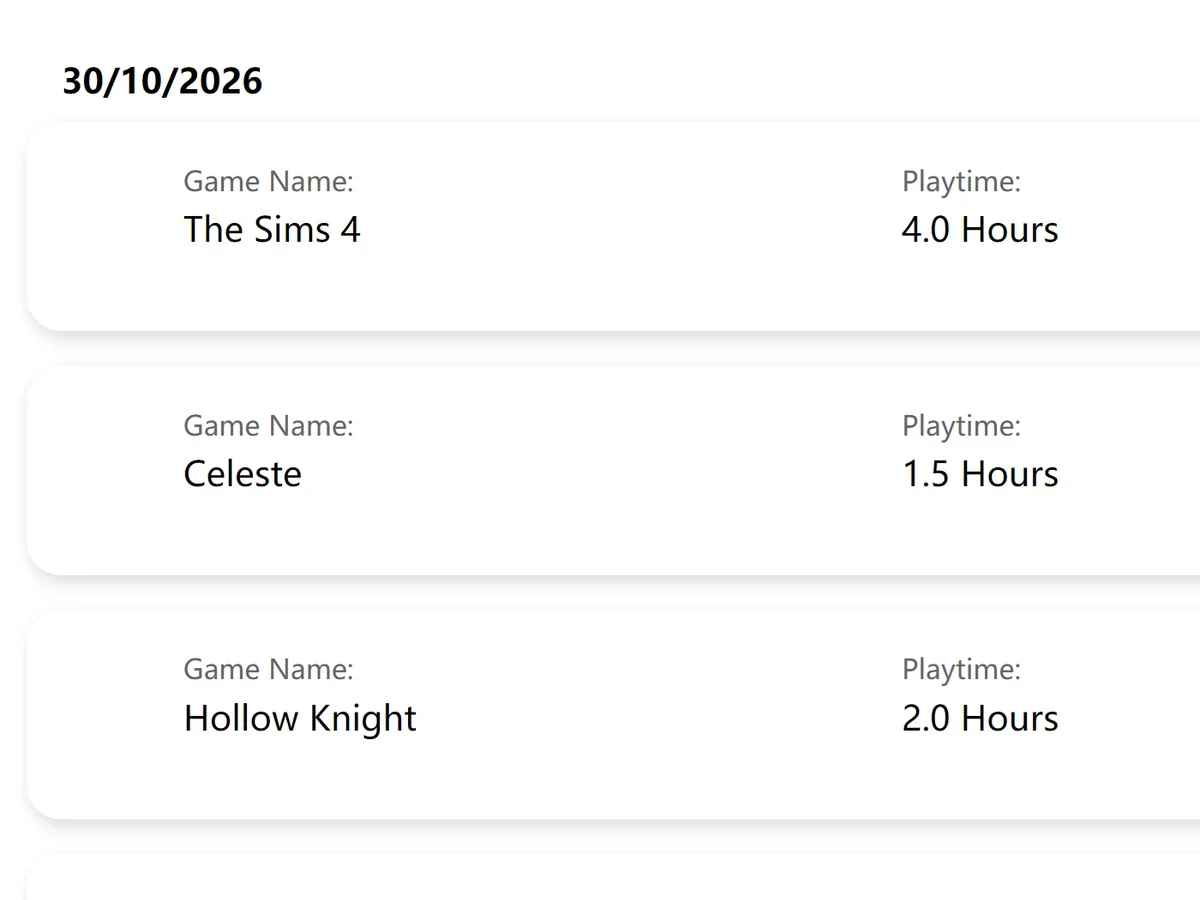
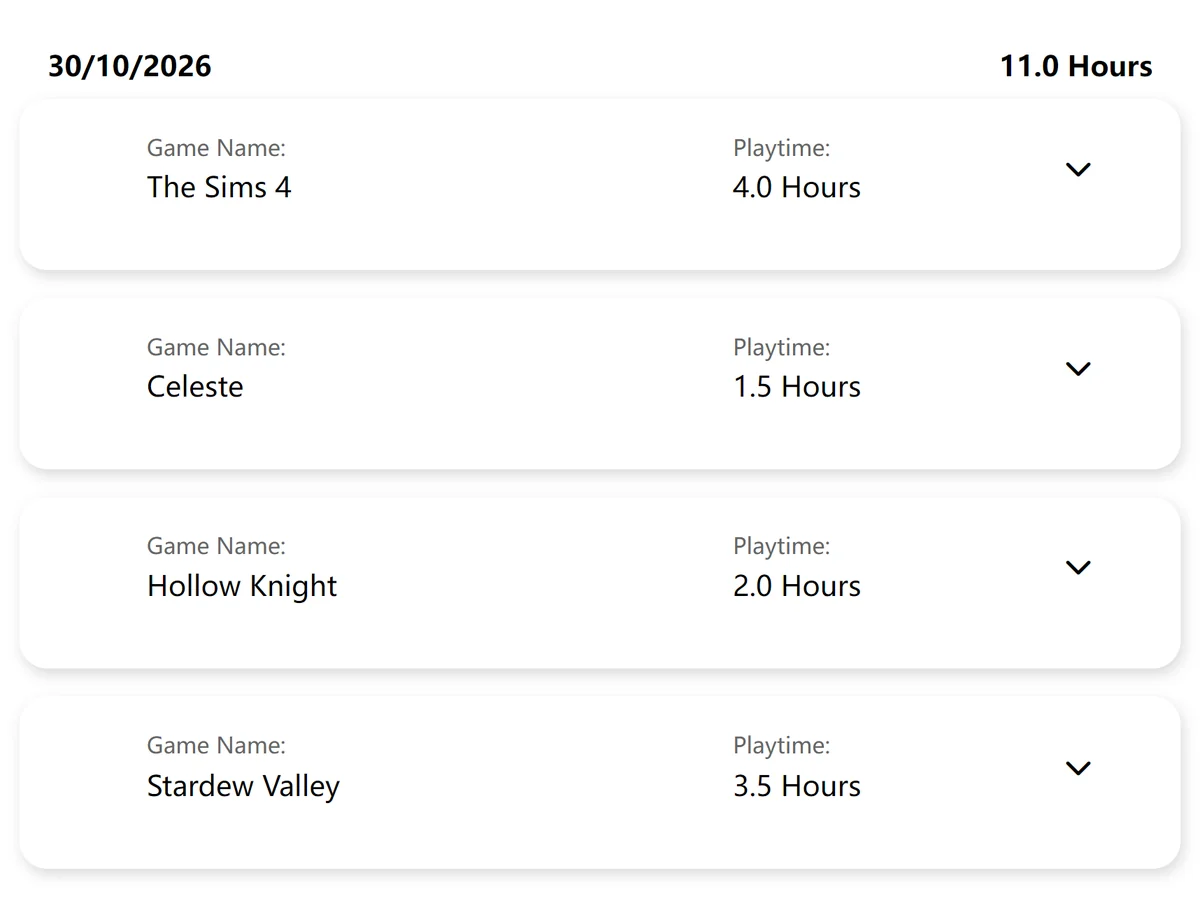
SteamTracker: new hero lede, history shot with the expand arrows, embedded app rendered at desktop width, drop the deployment post-mortem

diff --git a/steamtracker.html b/steamtracker.html
@@ -9,8 +9,8 @@
   <link rel="preconnect" href="https://fonts.googleapis.com" />
   <link rel="preconnect" href="https://fonts.gstatic.com" crossorigin />
   <link href="https://fonts.googleapis.com/css2?family=Montserrat:wght@300;400;500;600;700;800&family=Noto+Sans+SC:wght@300;400;500;700&display=swap" rel="stylesheet" />
-  <link rel="stylesheet" href="css/style.css?v=40" />
-  <link rel="stylesheet" href="css/steamtracker.css?v=40" />
+  <link rel="stylesheet" href="css/style.css?v=41" />
+  <link rel="stylesheet" href="css/steamtracker.css?v=41" />
 </head>
 <body class="st-page">
 
@@ -36,7 +36,8 @@
           <h1 class="st-hero__title">Steam<br />Tracker</h1>
           <p class="st-hero__lede">
             Steam will tell you that you have played a game for three hundred hours. It will not
-            tell you that tonight you played two. This app keeps <em>the second number</em>.
+            tell you how long you played today. This app keeps every session you add, so
+            <em>the hours are in front of you</em> instead of buried in a lifetime total.
           </p>
 
           <p class="st-hero__spec">No account · No server · Nothing leaves the browser</p>
@@ -100,7 +101,7 @@
             <figcaption><b>The landing screen.</b> Artwork for context, a sentence about privacy, then the form — nobody has to read a manual first.</figcaption>
           </figure>
           <figure>
-            <img src="assets/img/stk-history.webp" width="1200" height="900" loading="lazy"
+            <img src="assets/img/stk-history.webp" width="1200" height="901" loading="lazy"
                  alt="The history list: two entries under a date header, each with its game name and playtime." />
             <figcaption><b>The history.</b> Newest entry at the top, a date and a total above it, and an arrow on every row to open it.</figcaption>
           </figure>
@@ -177,7 +178,7 @@
     <section class="st-sec st-sec--ink" id="app">
       <div class="st-wrap">
         <p class="st-eyebrow">03 — It is a website, so use it</p>
-        <h2 class="st-h2" style="color:#fff">The build runs below. The repository link does not.</h2>
+        <h2 class="st-h2" style="color:#fff">This is the app, not a picture of it.</h2>
         <p class="st-p">
           This is the real application, not a recording of one. Add a game, watch the total change,
           refresh the page and it is still there. Everything you type stays in your own browser,
@@ -202,53 +203,6 @@
           </div>
         </div>
 
-        <p class="st-p" style="margin-top:26px">
-          <strong>Why the GitHub link never opened on another computer.</strong> Nothing in the code
-          is broken. The repository was simply never publishable, for three reasons that stack up in
-          the order you would meet them.
-        </p>
-
-        <div class="st-diag">
-          <div class="st-diag__row">
-            <div class="st-diag__n">01</div>
-            <div>
-              <div class="st-diag__t">There is no <code>index.html</code> at the root</div>
-              <div class="st-diag__d">
-                The site lives in <code>/public</code>. GitHub Pages serves the repository root, so
-                <code>github.io/&lt;repo&gt;</code> answers with a 404. There is nothing there for it
-                to open.
-              </div>
-            </div>
-          </div>
-          <div class="st-diag__row">
-            <div class="st-diag__n">02</div>
-            <div>
-              <div class="st-diag__t">The built folder is ignored by git</div>
-              <div class="st-diag__d">
-                <code>server.js</code> serves <code>/dist</code>, and <code>dist</code> sits in
-                <code>.gitignore</code>. Even with Node installed there is no compiled site to serve
-                until <code>parcel build</code> has run.
-              </div>
-            </div>
-          </div>
-          <div class="st-diag__row">
-            <div class="st-diag__n">03</div>
-            <div>
-              <div class="st-diag__t">The README's first instruction needs a step before it</div>
-              <div class="st-diag__d">
-                <code>npm run dev</code> needs <code>node_modules</code>, and a fresh clone has none.
-                The lockfile pins Parcel 2.9 and Sass from 2023, so <code>npm install</code> has to
-                succeed before anything runs at all.
-              </div>
-            </div>
-          </div>
-        </div>
-
-        <p class="st-p" style="margin-top:22px">
-          The fix was to stop asking people to build it. Once Parcel has done its pass the app is a
-          folder of static files, so I copied that folder into this site. Same code, no install,
-          works on any machine with a browser.
-        </p>
       </div>
     </section>
 
@@ -479,8 +433,8 @@
 
   </main>
 
-  <script src="js/content.js?v=40"></script>
-  <script src="js/main.js?v=40"></script>
-  <script src="js/steamtracker.js?v=40"></script>
+  <script src="js/content.js?v=41"></script>
+  <script src="js/main.js?v=41"></script>
+  <script src="js/steamtracker.js?v=41"></script>
 </body>
 </html>

diff --git a/js/steamtracker.js b/js/steamtracker.js
@@ -283,19 +283,42 @@
   }
 
   /* ---------- 内嵌 App ---------- */
+  /* App 按 1440px 的桌面宽度渲染，再整体缩放到框里 —— 这样它看起来是电脑网页，
+     而不是被挤成平板宽度。窄屏时退回 1:1，交给 App 自己的响应式布局。 */
   function stInitEmbed() {
     const frame = document.querySelector(".st-embed__frame");
     const gate = document.getElementById("stEmbedGate");
     if (!frame || !gate) return;
     gate.style.backgroundImage = "url(assets/img/stk-hero-app.webp)";
+
+    const DESIGN_W = 1440;
+    let iframe = null;
+
+    const fit = () => {
+      if (!iframe) return;
+      const w = frame.clientWidth;
+      if (w < 900) {
+        iframe.style.width = "100%";
+        iframe.style.height = "100%";
+        iframe.style.transform = "";
+        return;
+      }
+      const s = w / DESIGN_W;
+      iframe.style.width = DESIGN_W + "px";
+      iframe.style.height = Math.round(frame.clientHeight / s) + "px";
+      iframe.style.transform = "scale(" + s + ")";
+    };
+
     gate.addEventListener("click", () => {
-      if (frame.querySelector("iframe")) return;
-      const f = document.createElement("iframe");
-      f.title = "SteamTracker — the app itself";
-      f.src = "apps/steamtracker/index.html?v=39";
-      f.loading = "lazy";
-      frame.appendChild(f);
+      if (iframe) return;
+      iframe = document.createElement("iframe");
+      iframe.title = "SteamTracker — the app itself";
+      iframe.src = "apps/steamtracker/index.html?v=39";
+      iframe.loading = "lazy";
+      frame.appendChild(iframe);
       gate.remove();
+      fit();
+      window.addEventListener("resize", fit);
     });
   }
 

diff --git a/about.html b/about.html
@@ -9,8 +9,8 @@
   <link rel="preconnect" href="https://fonts.googleapis.com" />
   <link rel="preconnect" href="https://fonts.gstatic.com" crossorigin />
   <link href="https://fonts.googleapis.com/css2?family=Montserrat:wght@300;400;500;600;700;800&family=Noto+Sans+SC:wght@300;400;500;700&display=swap" rel="stylesheet" />
-  <link rel="stylesheet" href="css/style.css?v=40" />
-  <link rel="stylesheet" href="css/about.css?v=36" />
+  <link rel="stylesheet" href="css/style.css?v=41" />
+  <link rel="stylesheet" href="css/about.css?v=37" />
 </head>
 <body>
 
@@ -28,8 +28,8 @@
   <!-- ================= 页面内容（由 about 脚本渲染，Contact 为最后一个区块） ================= -->
   <main class="ab-page" id="abMain"></main>
 
-  <script src="js/content.js?v=40"></script>
-  <script src="js/main.js?v=40"></script>
-  <script src="js/about.js?v=36"></script>
+  <script src="js/content.js?v=41"></script>
+  <script src="js/main.js?v=41"></script>
+  <script src="js/about.js?v=37"></script>
 </body>
 </html>

diff --git a/sunlink.html b/sunlink.html
@@ -9,8 +9,8 @@
   <link rel="preconnect" href="https://fonts.googleapis.com" />
   <link rel="preconnect" href="https://fonts.gstatic.com" crossorigin />
   <link href="https://fonts.googleapis.com/css2?family=Montserrat:wght@300;400;500;600;700;800&family=Noto+Sans+SC:wght@300;400;500;700&display=swap" rel="stylesheet" />
-  <link rel="stylesheet" href="css/style.css?v=40" />
-  <link rel="stylesheet" href="css/sunlink.css?v=39" />
+  <link rel="stylesheet" href="css/style.css?v=41" />
+  <link rel="stylesheet" href="css/sunlink.css?v=40" />
 </head>
 <body class="sl-page">
 
@@ -865,9 +865,9 @@
 
   </main>
 
-  <script src="js/content.js?v=40"></script>
-  <script src="js/main.js?v=40"></script>
+  <script src="js/content.js?v=41"></script>
+  <script src="js/main.js?v=41"></script>
   <script src="assets/vendor/three.min.js"></script>
-  <script src="js/sunlink.js?v=39"></script>
+  <script src="js/sunlink.js?v=40"></script>
 </body>
 </html>

diff --git a/busstop.html b/busstop.html
@@ -8,7 +8,7 @@
   <link rel="preconnect" href="https://fonts.googleapis.com" />
   <link rel="preconnect" href="https://fonts.gstatic.com" crossorigin />
   <link href="https://fonts.googleapis.com/css2?family=Montserrat:wght@300;400;500;600;700;800&family=Noto+Sans+SC:wght@300;400;500;700&display=swap" rel="stylesheet" />
-  <link rel="stylesheet" href="css/style.css?v=40" />
+  <link rel="stylesheet" href="css/style.css?v=41" />
 </head>
 <body>
 
@@ -25,7 +25,7 @@
 
   <main class="blank-page"></main>
 
-  <script src="js/content.js?v=40"></script>
-  <script src="js/main.js?v=40"></script>
+  <script src="js/content.js?v=41"></script>
+  <script src="js/main.js?v=41"></script>
 </body>
 </html>

diff --git a/chocolate.html b/chocolate.html
@@ -8,7 +8,7 @@
   <link rel="preconnect" href="https://fonts.googleapis.com" />
   <link rel="preconnect" href="https://fonts.gstatic.com" crossorigin />
   <link href="https://fonts.googleapis.com/css2?family=Montserrat:wght@300;400;500;600;700;800&family=Noto+Sans+SC:wght@300;400;500;700&display=swap" rel="stylesheet" />
-  <link rel="stylesheet" href="css/style.css?v=40" />
+  <link rel="stylesheet" href="css/style.css?v=41" />
 </head>
 <body>
 
@@ -25,7 +25,7 @@
 
   <main class="blank-page"></main>
 
-  <script src="js/content.js?v=40"></script>
-  <script src="js/main.js?v=40"></script>
+  <script src="js/content.js?v=41"></script>
+  <script src="js/main.js?v=41"></script>
 </body>
 </html>

diff --git a/index.html b/index.html
@@ -9,7 +9,7 @@
   <link rel="preconnect" href="https://fonts.googleapis.com" />
   <link rel="preconnect" href="https://fonts.gstatic.com" crossorigin />
   <link href="https://fonts.googleapis.com/css2?family=Montserrat:wght@300;400;500;600;700;800&family=Noto+Sans+SC:wght@300;400;500;700&display=swap" rel="stylesheet" />
-  <link rel="stylesheet" href="css/style.css?v=40" />
+  <link rel="stylesheet" href="css/style.css?v=41" />
 </head>
 <body>
 
@@ -90,7 +90,7 @@
     </div>
   </footer>
 
-  <script src="js/content.js?v=40"></script>
-  <script src="js/main.js?v=40"></script>
+  <script src="js/content.js?v=41"></script>
+  <script src="js/main.js?v=41"></script>
 </body>
 </html>

diff --git a/css/steamtracker.css b/css/steamtracker.css
@@ -352,18 +352,20 @@
   position: relative;
 }
 .st-embed__frame {
-  aspect-ratio: 16 / 10.8;
+  aspect-ratio: 16 / 10;
   width: 100%;
   position: relative;
   background: #14243a;
 }
 .st-embed__frame iframe {
   position: absolute;
-  inset: 0;
+  top: 0;
+  left: 0;
   width: 100%;
   height: 100%;
   border: 0;
   display: block;
+  transform-origin: top left;
 }
 .st-embed__gate {
   position: absolute;
